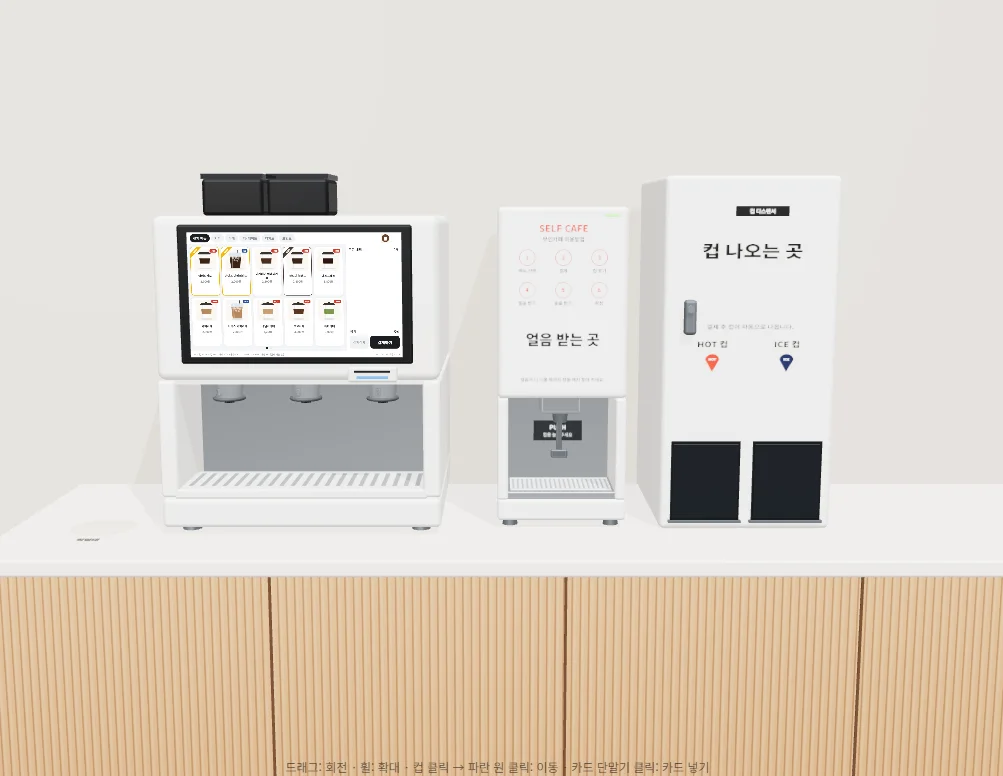
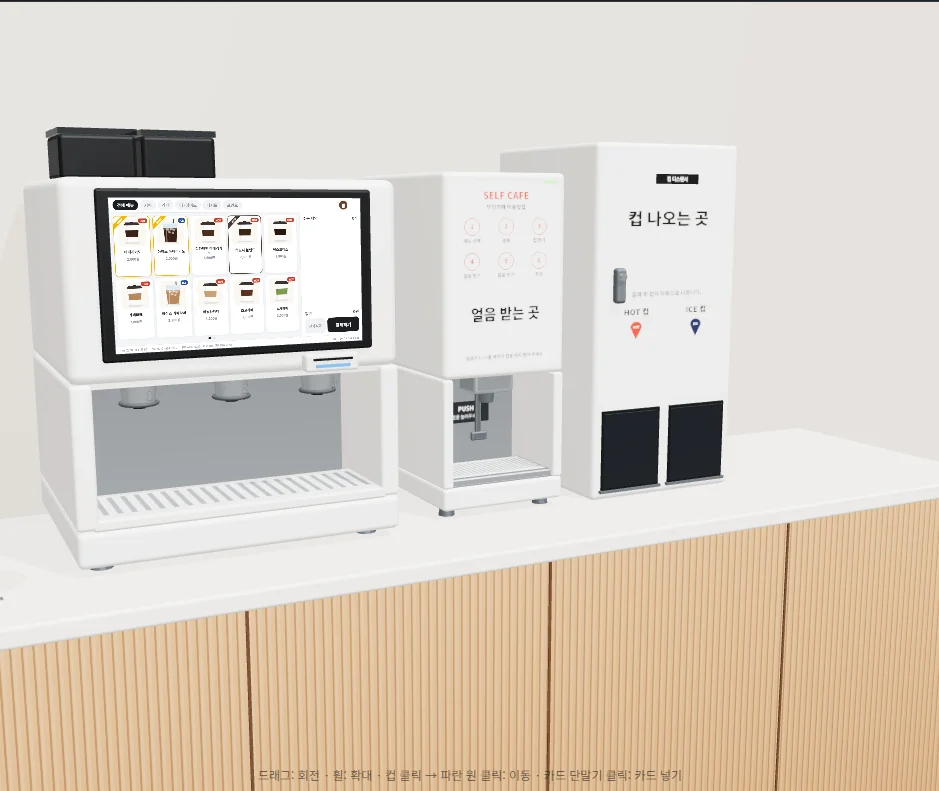
feat: Unity Look Preset Tool 카드를 원본 → 프리셋 덮어씌우기 움짤 중심으로 변경
- 원본을 프리셋과 같은 카메라 각도로 다시 촬영 (키오스크 화면 포함)
- 원본 → 화이트 → 다크 → 레트로 → 빈티지가 세로선으로 덮어씌워지는 움짤 추가
- 각도가 안 맞던 Before/After 슬라이더와 Unity 렌더 비교 이미지 3장 삭제
- 썸네일 왼쪽 원본도 같은 각도 사진으로 교체

Changed region(s): [[0.0, 0.1546, 1.0, 1.0], [0.7721, 0.433, 0.803, 0.4948], [0.1853, 0.6804, 0.2162, 0.7113]]

diff --git a/index.html b/index.html
@@ -73,7 +73,7 @@
 <span>06</span> RecordInspection();    <b>// → Unity</b></pre></div><div class="thumb-glass">SOLO <i></i></div></div><div class="project-copy"><div class="project-topline"><span>MACHINE VISION</span><span>2026</span></div><h3>Industrial Camera<br>Inspection</h3><p>컨베이어 위 뚜껑의 색과 숫자를 실시간으로 읽어 양품/불량을 판정합니다.</p><div class="tags"><i>C#</i><i>OpenCV</i><i>PyTorch CNN</i><i>ONNX Runtime</i></div><button class="project-more" type="button">자세히 보기 +</button><a href="https://github.com/subinlu22/CameraNumberDetect" target="_blank" rel="noopener">GitHub <b>↗</b></a></div></article>
           <article class="project glass-project project-open" data-title="Camera Digital Twin" data-video="assets/videos/twin-demo.mp4,https://youtu.be/XKPuIZVpcmo,https://youtu.be/QqhlZ-_pYNY" data-video-poster="assets/videos/twin-demo-poster.webp" data-video-captions="완성 데모 · 실물 컨베이어 → 카메라 판정 → Unity 디지털트윈 실시간 연동,제품 스폰 시뮬레이션 및 이송 과정,적색 임계값 기반 비전 판정 검사" data-extra="#Unity,assets/projects/unity_dashboard_empty.webp::Unity 디지털트윈 실행 화면 · 실시간 검사 통계를 표시하는 UI,assets/projects/twin-belt-anim.webp::벨트 이송 시뮬레이션 · 천 스크롤과 뚜껑 이동이 같은 속도로 맞물려 움직임,#Modeling,assets/projects/twin_model_01_hero.webp::스튜디오 렌더 · 카메라·링라이트·컨베이어·뚜껑 9종 전체,assets/projects/twin_model_05_angle.webp::링라이트 점등 · 벨트 위 검사 영역을 비추는 조명,=,assets/projects/twin_model_04_side.webp::정면 · 카메라-링라이트-벨트 수직 정렬,assets/projects/twin_model_03_belt.webp::컨베이어 벨트와 뚜껑 견본 (색 3 × 숫자 3),#Real,assets/projects/real_setup.webp::현실 쪽 실제 장비,assets/projects/cam_program.webp::카메라 프로그램 · 판정 결과를 Unity로 전송"><div class="project-thumb thumb-board"><span class="thumb-count">PROJECT / 02</span><svg viewBox="0 0 520 250" aria-hidden="true"><g fill="none" stroke="currentColor" stroke-width="2" stroke-linejoin="round" stroke-linecap="round"><path d="M24 214h472" stroke-dasharray="2 6" opacity=".5"/><path d="M226 214h28M240 214V32"/><rect x="234" y="44" width="12" height="14" rx="2"/><path d="M234 51h-34"/><rect x="170" y="38" width="30" height="28" rx="3"/><rect x="178" y="66" width="14" height="14" rx="2"/><path d="M178 72h14" opacity=".6"/><rect x="234" y="106" width="12" height="12" rx="2"/><path d="M234 112h-19"/><ellipse cx="185" cy="112" rx="31" ry="9" fill="#ffc861" fill-opacity=".24"/><ellipse cx="185" cy="111" rx="18" ry="4.5"/><path d="M181 82 160 152M189 82 210 152" stroke="#9dd5ca" stroke-dasharray="3 5" opacity=".9"/><rect x="34" y="168" width="302" height="20" rx="10" fill="#8fd16f" fill-opacity=".24"/><circle cx="44" cy="178" r="6"/><circle cx="326" cy="178" r="6"/><path d="M84 188v26M286 188v26"/><path d="M78 158v8a22 6 0 0 0 44 0v-8" fill="#ff7a6b" fill-opacity=".24"/><ellipse cx="100" cy="158" rx="22" ry="6" fill="#ff7a6b" fill-opacity=".24"/><path d="M163 158v8a22 6 0 0 0 44 0v-8" fill="#7fc1d6" fill-opacity=".24"/><ellipse cx="185" cy="158" rx="22" ry="6" fill="#7fc1d6" fill-opacity=".24"/><path d="M248 158v8a22 6 0 0 0 44 0v-8" fill="#e8eef8" fill-opacity=".2"/><ellipse cx="270" cy="158" rx="22" ry="6" fill="#e8eef8" fill-opacity=".2"/><path d="M300 178h14m-5-4 5 4-5 4" opacity=".55"/><path d="M204 34q86-34 166 26" stroke="#9dd5ca" stroke-dasharray="3 6" opacity=".9"/><rect x="370" y="52" width="128" height="124" rx="8" fill="currentColor" fill-opacity=".05"/><path d="M384 72h30" opacity=".7"/><circle cx="484" cy="72" r="3" fill="#9dd5ca" stroke="none"/><g stroke-width="1.6"><path d="M384 94h98M384 110h98M384 126h98" opacity=".18"/><path d="M384 94h58" stroke="#e8eef8"/><path d="M384 110h78" stroke="#7fc1d6"/><path d="M384 126h40" stroke="#ff7a6b"/></g><rect x="384" y="146" width="98" height="12" rx="6" stroke-dasharray="3 4" opacity=".75"/><ellipse cx="408" cy="143" rx="8" ry="2.5" stroke-dasharray="2 3" stroke="#ff7a6b"/><ellipse cx="434" cy="143" rx="8" ry="2.5" stroke-dasharray="2 3" stroke="#7fc1d6"/><ellipse cx="460" cy="143" rx="8" ry="2.5" stroke-dasharray="2 3" stroke="#e8eef8"/></g><g fill="currentColor" font-family="ui-monospace,Menlo,Consolas,monospace" font-size="9" text-anchor="middle"><text x="100" y="161">3</text><text x="185" y="161">1</text><text x="270" y="161">2</text><text x="290" y="14" fill="#9dd5ca" letter-spacing="1.5">UDP</text></g></svg><div class="thumb-glass">SOLO <i></i></div></div><div class="project-copy"><div class="project-topline"><span>DIGITAL TWIN</span><span>2026</span></div><h3>Camera<br>Digital Twin</h3><p>카메라 판정 결과를 UDP로 받아 Unity 벨트 위에 같은 뚜껑을 재현합니다. SO-101 로봇팔 연동 중.</p><div class="tags"><i>Unity 6</i><i>C#</i><i>UDP</i><i>URDF</i><i>ArticulationBody</i></div><button class="project-more" type="button">자세히 보기 +</button><a href="https://github.com/subinlu22/CameraDigitalTwin" target="_blank" rel="noopener">GitHub <b>↗</b></a></div></article>
           <article class="project glass-project project-open" data-title="SO-101 Robot Arm Simulator" data-video="assets/videos/so101-demo.mp4" data-video-poster="assets/videos/so101-demo-poster.webp" data-video-captions="데모 · 실물 리더암을 움직이면 Unity 로봇팔이 같은 각도로 따라 움직임"><div class="project-thumb thumb-board"><span class="thumb-count">PROJECT / 03</span><svg viewBox="0 0 520 250" aria-hidden="true"><g fill="none" stroke="currentColor" stroke-width="2" stroke-linejoin="round" stroke-linecap="round"><path d="M24 222h472" stroke-dasharray="2 6" opacity=".5"/><rect x="52" y="200" width="56" height="22" rx="3" fill="#e8eef8" fill-opacity=".12"/><path d="M80 200v-16"/><circle cx="80" cy="180" r="6"/><path d="M84 175 120 118"/><circle cx="122" cy="114" r="6"/><path d="M118 110 92 76"/><circle cx="90" cy="72" r="5"/><path d="M86 68l-12-12m16 8 4-18"/><path d="M150 120q50-34 100 0" stroke="#9dd5ca" stroke-dasharray="3 6" opacity=".9"/><path d="M243 112l8 8-11 2" stroke="#9dd5ca"/><rect x="176" y="136" width="52" height="30" rx="5" fill="currentColor" fill-opacity=".05"/><path d="M186 146h14m-14 10h26" opacity=".7"/><rect x="372" y="200" width="56" height="22" rx="3" fill="#ffc861" fill-opacity=".24"/><path d="M400 200v-16"/><circle cx="400" cy="180" r="6" fill="#ffc861" fill-opacity=".24"/><path d="M396 175 352 112" /><circle cx="350" cy="108" r="6" fill="#ffc861" fill-opacity=".24"/><path d="M354 104 296 92"/><circle cx="292" cy="92" r="5" fill="#ffc861" fill-opacity=".24"/><path d="M288 96l-8 16m14-14 2 18"/><rect x="250" y="178" width="96" height="14" rx="7" fill="#8fd16f" fill-opacity=".24"/><ellipse cx="282" cy="174" rx="12" ry="3.5" fill="#7fc1d6" fill-opacity=".3"/><ellipse cx="314" cy="174" rx="12" ry="3.5" fill="#ff7a6b" fill-opacity=".3"/></g><g fill="currentColor" font-family="ui-monospace,Menlo,Consolas,monospace" font-size="9" text-anchor="middle"><text x="200" y="98" fill="#9dd5ca" letter-spacing="1.5">UDP 30Hz</text><text x="80" y="242" opacity=".7">LEADER</text><text x="446" y="150" opacity=".7">FOLLOWER · UNITY</text></g></svg><div class="thumb-glass">SOLO <span>진행 중</span><i></i></div></div><div class="project-copy"><div class="project-topline"><span>ROBOT ARM · DIGITAL TWIN</span><span>2026.10 – 진행 중</span></div><h3>SO-101 Robot Arm<br>Simulator</h3><p>실물 로봇팔과 실시간으로 똑같이 움직이는 학습용 디지털 트윈 시뮬레이터</p><div class="tags"><i>Unity 6</i><i>C#</i><i>Python</i><i>UDP</i><i>URDF</i><i>ArticulationBody</i><i>LeRobot</i></div><p class="project-role">리더암 → 파이썬 브리지 → 팔로워암 · 유니티</p><button class="project-more" type="button">자세히 보기 +</button><a href="https://github.com/subinlu22/CameraDigitalTwin" target="_blank" rel="noopener">GitHub <b>↗</b></a></div></article>
-          <article class="project glass-project project-open" data-title="Unity Look Preset Tool" data-extra="#Before → After,assets/projects/lookpreset_before.webp|assets/projects/lookpreset_white.webp|Before/After::원본 웹 시뮬레이터 → 화이트 라운지 (막대를 끌어서 비교),assets/projects/lookpreset_before.webp|assets/projects/lookpreset_retro.webp|Before/After::원본 → 레트로 분식 (스티커·포스터·더티는 모두 코드로 생성),#Presets · 동작 중인 시뮬레이터,assets/projects/lookpreset_white.webp::화이트 라운지,assets/projects/lookpreset_dark.webp::다크 라운지,=,assets/projects/lookpreset_retro.webp::레트로 분식,assets/projects/lookpreset_vintage.webp::빈티지 그린,assets/projects/lookpreset_retro_live.webp::시뮬레이터 패널(보일러·제빙기·컵 디스펜서)이 동작하는 상태에서 룩만 교체 · 오른쪽 아래 룩 선택·밝기 슬라이더,#Reference → Preset,assets/projects/lookpreset_ref_retro.webp::Reference Matcher · 레퍼런스 사진(왼쪽) → 자동 생성 프리셋(오른쪽),assets/projects/lookpreset_ref_vintage.webp::빈티지 그린 · 영역 색 추출 + 재질 종류 + 톤 자동 보정,assets/projects/lookpreset_ref_lounges.webp::레퍼런스 · 화이트 라운지 · 다크 라운지"><div class="project-thumb thumb-board"><img class="project-img" src="assets/projects/lookpreset_thumb.webp" alt="Unity Look Preset Tool 원본과 프리셋 4종 비교" loading="lazy" decoding="async"><span class="thumb-count">PROJECT / 04</span><div class="thumb-glass">SOLO <span>진행 중</span><i></i></div></div><div class="project-copy"><div class="project-topline"><span>UNITY TOOL · LOOK DEV</span><span>2026.10 – 진행 중</span></div><h3>Unity Look<br>Preset Tool</h3><p>모델·시뮬레이션은 그대로, 보이는 룩만 바꾸는 Unity 에디터 툴. 레퍼런스 사진 한 장으로 프리셋을 만들고 동작 중인 웹 시뮬레이터에 실시간 적용합니다.</p><div class="tags"><i>Unity 6</i><i>C#</i><i>Editor Tool</i><i>Post Processing</i><i>three.js</i><i>glTF</i><i>MCP</i></div><p class="project-role">레퍼런스 사진 → Unity 프리셋 → three.js 시뮬레이터 (Live Link)</p><button class="project-more" type="button">자세히 보기 +</button><a href="https://github.com/subinlu22/unity-render-presets" target="_blank" rel="noopener">GitHub <b>↗</b></a></div></article>
+          <article class="project glass-project project-open" data-title="Unity Look Preset Tool" data-extra="#Before → After,assets/projects/lookpreset_before.webp::원본 · 룩을 씌우기 전 웹 시뮬레이터 (프리셋과 같은 카메라 각도),=,assets/projects/lookpreset_wipe.webp::원본 → 화이트 라운지 → 다크 라운지 → 레트로 분식 → 빈티지 그린 · 모델·시뮬레이션은 그대로 두고 룩만 교체,#Presets · 동작 중인 시뮬레이터,assets/projects/lookpreset_white.webp::화이트 라운지,assets/projects/lookpreset_dark.webp::다크 라운지,=,assets/projects/lookpreset_retro.webp::레트로 분식 · 스티커·포스터·더티는 코드로 생성,assets/projects/lookpreset_vintage.webp::빈티지 그린,assets/projects/lookpreset_retro_live.webp::시뮬레이터 패널(보일러·제빙기·컵 디스펜서)이 동작하는 상태에서 룩만 교체 · 오른쪽 아래 룩 선택·밝기 슬라이더"><div class="project-thumb thumb-board"><img class="project-img" src="assets/projects/lookpreset_thumb.webp" alt="Unity Look Preset Tool 원본과 프리셋 4종 비교" loading="lazy" decoding="async"><span class="thumb-count">PROJECT / 04</span><div class="thumb-glass">SOLO <span>진행 중</span><i></i></div></div><div class="project-copy"><div class="project-topline"><span>UNITY TOOL · LOOK DEV</span><span>2026.10 – 진행 중</span></div><h3>Unity Look<br>Preset Tool</h3><p>모델·시뮬레이션은 그대로, 보이는 룩만 바꾸는 Unity 에디터 툴. 레퍼런스 사진 한 장으로 프리셋을 만들고 동작 중인 웹 시뮬레이터에 실시간 적용합니다.</p><div class="tags"><i>Unity 6</i><i>C#</i><i>Editor Tool</i><i>Post Processing</i><i>three.js</i><i>glTF</i><i>MCP</i></div><p class="project-role">레퍼런스 사진 → Unity 프리셋 → three.js 시뮬레이터 (Live Link)</p><button class="project-more" type="button">자세히 보기 +</button><a href="https://github.com/subinlu22/unity-render-presets" target="_blank" rel="noopener">GitHub <b>↗</b></a></div></article>
           <h4 class="project-group">AI 서비스</h4>
           <article class="project glass-project project-open" data-title="Dopamine" data-video="https://youtu.be/BAMX8Uf0CLA" data-pdf="assets/projects/dopamine-presentation.pdf" data-render="assets/projects/dopamine-home.webp" data-note="메인 화면 · 일기와 사진, 생성된 음악을 한눈에 확인하는 홈 대시보드" data-extra="assets/projects/dopamine-main.webp::DOPAMINE 서비스 시작 화면,assets/projects/dopamine-result-1.webp::AI 노래 생성 결과물,assets/projects/dopamine-result-2.webp::AI 노래 생성 결과물"><div class="project-thumb thumb-drone"><span class="thumb-count">PROJECT / 05</span><svg viewBox="0 0 520 250" aria-hidden="true"><g fill="none" stroke="currentColor" stroke-width="2"><rect x="70" y="45" width="150" height="150" rx="6"/><circle cx="145" cy="120" r="34"/><circle cx="145" cy="120" r="5"/><path d="M260 125h12l10-40 14 80 14-62 12 44 12-30 12 20 12-12 12 8 12-4 12 0 12 0" stroke-linejoin="round"/></g></svg><div class="thumb-glass">TEAM 2 <span>AI · BACKEND</span></div></div><div class="project-copy"><div class="project-topline"><span>GENERATIVE AI</span><span>2026</span></div><h3>Dopamine</h3><p>일기·사진·음성을 입력하면 AI가 가사, 음악, 앨범 커버를 만들어줍니다. 생성형 AI ICT 공모전 출품.</p><div class="tags"><i>FastAPI</i><i>Gemini API</i><i>ACE-Step</i><i>SDXL-Turbo</i></div><button class="project-more" type="button">자세히 보기 +</button><a href="https://github.com/subinlu22/Dopamine" target="_blank" rel="noopener">GitHub <b>↗</b></a></div></article>
           <article class="project glass-project project-open" data-title="Memorium" data-video="https://youtube.com/shorts/ubAPk-1Mrrw,https://youtube.com/shorts/Lr6p-6LIiUQ" data-video-captions="라즈베리파이 환경에서의 실시간 프레임 저하 현상,프레임 저하 개선 후 동작 안정화 결과" data-pdf="assets/projects/memorium-final-report.pdf"><div class="project-thumb thumb-board"><span class="thumb-count">PROJECT / 06</span><svg viewBox="0 0 520 250" aria-hidden="true"><g fill="none" stroke="currentColor" stroke-width="2"><rect x="150" y="35" width="220" height="160" rx="8"/><rect x="168" y="53" width="184" height="124" rx="3"/><path d="M180 165l50-55 40 38 25-22 45 39" stroke-linejoin="round"/><circle cx="310" cy="85" r="12"/><path d="M230 195l-20 26m100-26 20 26"/></g></svg><div class="thumb-glass">SOLO <i></i></div></div><div class="project-copy"><div class="project-topline"><span>EMBEDDED AI</span><span>2026</span></div><h3>Memorium</h3><p>치매 어르신의 기억을 돕는 AI 스마트 액자. 임베디드 소프트웨어 경진대회 출품.</p><div class="tags"><i>Raspberry Pi 5</i><i>Hailo</i><i>Flask</i><i>DeepFace</i></div><button class="project-more" type="button">자세히 보기 +</button><a href="https://github.com/subinlu22/memorium" target="_blank" rel="noopener">GitHub <b>↗</b></a></div></article>
